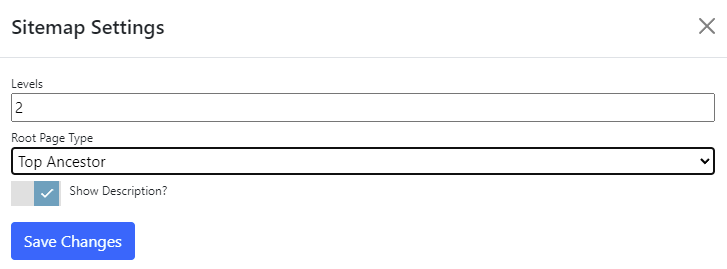
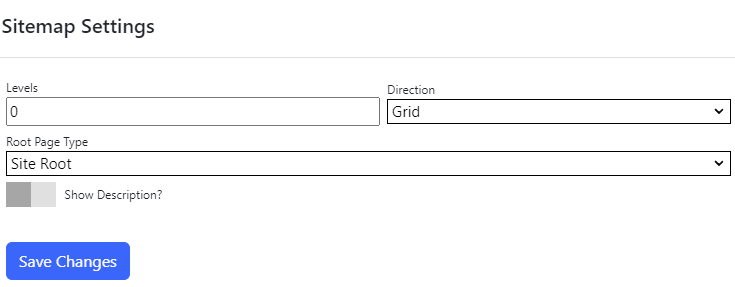
feature: Added "Grid" display mode.

diff --git a/Nucleus.Core.Modules/Nucleus.Modules.Sitemap/sitemap.css b/Nucleus.Core.Modules/Nucleus.Modules.Sitemap/sitemap.css
@@ -24,3 +24,11 @@ OL.Sitemap.sitemap-horizontal
   row-gap: var(--nucleus-default-gap-vertical);
   column-gap: var(--nucleus-default-gap-horizontal);
 }
+
+OL.Sitemap.sitemap-grid
+{
+  display: grid;
+  grid-template-columns: repeat(auto-fill, minmax(20rem, 1fr));
+  row-gap: var(--nucleus-default-gap-vertical);
+  column-gap: var(--nucleus-default-gap-horizontal);
+}

diff --git a/Nucleus.Core.Modules/Nucleus.Modules.Sitemap/SitemapRenderer.cs b/Nucleus.Core.Modules/Nucleus.Modules.Sitemap/SitemapRenderer.cs
@@ -55,7 +55,8 @@ namespace Nucleus.Modules.Sitemap
   public enum Directions
   {
     Vertical = 0,
-    Horizontal = 1
+    Horizontal = 1,
+    Grid
   }
 
   /// <summary>
@@ -116,7 +117,11 @@ namespace Nucleus.Modules.Sitemap
         {
           outputBuilder.AddCssClass("sitemap-horizontal");
         }
-			}
+        else if (direction == Directions.Grid)
+        {
+          outputBuilder.AddCssClass("sitemap-grid");
+        }
+      }
 
 			return outputBuilder;
 		}

diff --git a/Nucleus.Core.Modules/Nucleus.Modules.Sitemap/Documentation/Sitemap.md b/Nucleus.Core.Modules/Nucleus.Modules.Sitemap/Documentation/Sitemap.md
@@ -10,9 +10,19 @@ display a list of pages in on a landing page.
 |                     |                                                                                      |
 |---------------------|--------------------------------------------------------------------------------------|
 | Levels              | Specifies how many levels of descendant pages to display.  Set to 0 to show all levels.  |
+| Direction           | Specifies how the site map is rendered - Vertical, Horizontal or Grid.  Refer to the [Directions](#directions) section below for a description of each direction.   |
 | Root Page Type      | Specifies how to determine the top level page (see below). |
 | Selected Page       | If the root page type is set to `Selected Page`, specifies the selected page. |
 | Show Description    | Specifies whether to display the page description. |
+
+### Direction
+{.table-25-75}
+|                     |                                                                                      |
+|---------------------|--------------------------------------------------------------------------------------|
+| Vertical            | Renders the site map in a list with each list item in a new line.  Each level is rendered in a child list. |
+| Horizontal          | Renders the site map in a list.  Each item in the top level is drawn side-by-side.  Subsequent levels are rendered below their top-level parent.  |
+| Grid                | Renders the site map in a grid, which adapts to the browser window size.  Each item in the top level is drawn side-by-side, but the display can wrap when the number of items exceeds the display width of the browser.  Subsequent levels are rendered below their top-level parent. |
+
 
 ### Root Page Types
 
